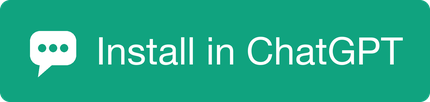
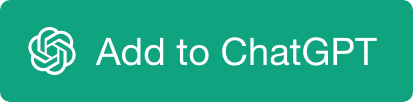
docs(readme): link the marketplace listings in One Click Setup and add Copilot
One Click Setup now shows five buttons on one line: Install in VS Code, Add to Copilot, Add to Cursor, Add to Claude and Add to ChatGPT. Copilot, Cursor, Claude and ChatGPT link to the official BrowserStack marketplace listings. The Cursor and ChatGPT buttons are relabelled from Install to Add, ChatGPT and Copilot use their logos (Simple Icons, CC0), and all buttons share one height so they no longer stretch.

diff --git a/README.md b/README.md
@@ -39,7 +39,7 @@ Stay in flow—keep all project context in one place and trigger actions directl
 
 Click on the buttons below to install MCP in your respective IDE or assistant:
 
-<a href="http://mcp.browserstack.com/one-click-setup?client=vscode"><img src="assets/one-click-vs-code.png" alt="Install in VS Code" width="160" height="80"></a>&nbsp;&nbsp;&nbsp;<a href="http://mcp.browserstack.com/one-click-setup?client=cursor"><img src="assets/one-click-cursor.png" alt="Install in Cursor" width="150" height="70"></a>&nbsp;&nbsp;&nbsp;<a href="https://chatgpt.com/plugins/plugin_asdk_app_6a8bf7703f1881918317add0244840a8"><img src="assets/one-click-chatgpt.png" alt="Install in ChatGPT" width="160" height="80"></a>&nbsp;&nbsp;&nbsp;<a href="#-agent-assisted-setup"><img src="assets/one-click-claude.png" alt="Add to Claude" width="150" height="70"></a>
+<a href="http://mcp.browserstack.com/one-click-setup?client=vscode"><img src="assets/one-click-vs-code.png" alt="Install in VS Code" height="38"></a>&nbsp;&nbsp;<a href="https://github.com/mcp?search=browserstack"><img src="assets/one-click-copilot.png" alt="Add to Copilot" height="38"></a>&nbsp;&nbsp;<a href="https://cursor.com/marketplace/browserstack"><img src="assets/one-click-cursor.png" alt="Add to Cursor" height="38"></a>&nbsp;&nbsp;<a href="https://claude.com/marketplace/connectors/mcp-browserstack-com"><img src="assets/one-click-claude.png" alt="Add to Claude" height="38"></a>&nbsp;&nbsp;<a href="https://chatgpt.com/plugins/plugin_asdk_app_6a8bf7703f1881918317add0244840a8"><img src="assets/one-click-chatgpt.png" alt="Add to ChatGPT" height="38"></a>
 
 > **Note:** The hosted Remote MCP server (`mcp.browserstack.com`) is now fully stateless over Streamable HTTP — any Streamable-HTTP client (Claude, Cursor, VS Code, ChatGPT) connects with no configuration change.
 
